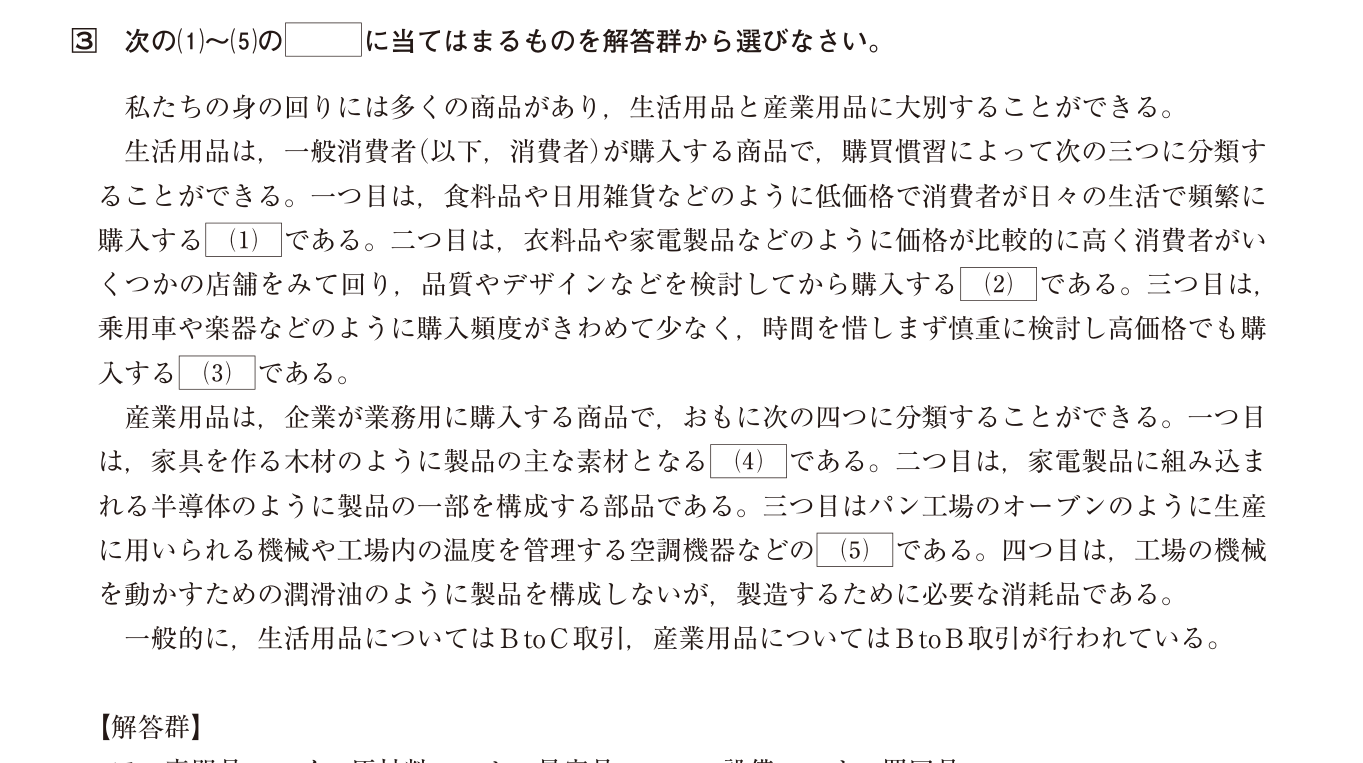
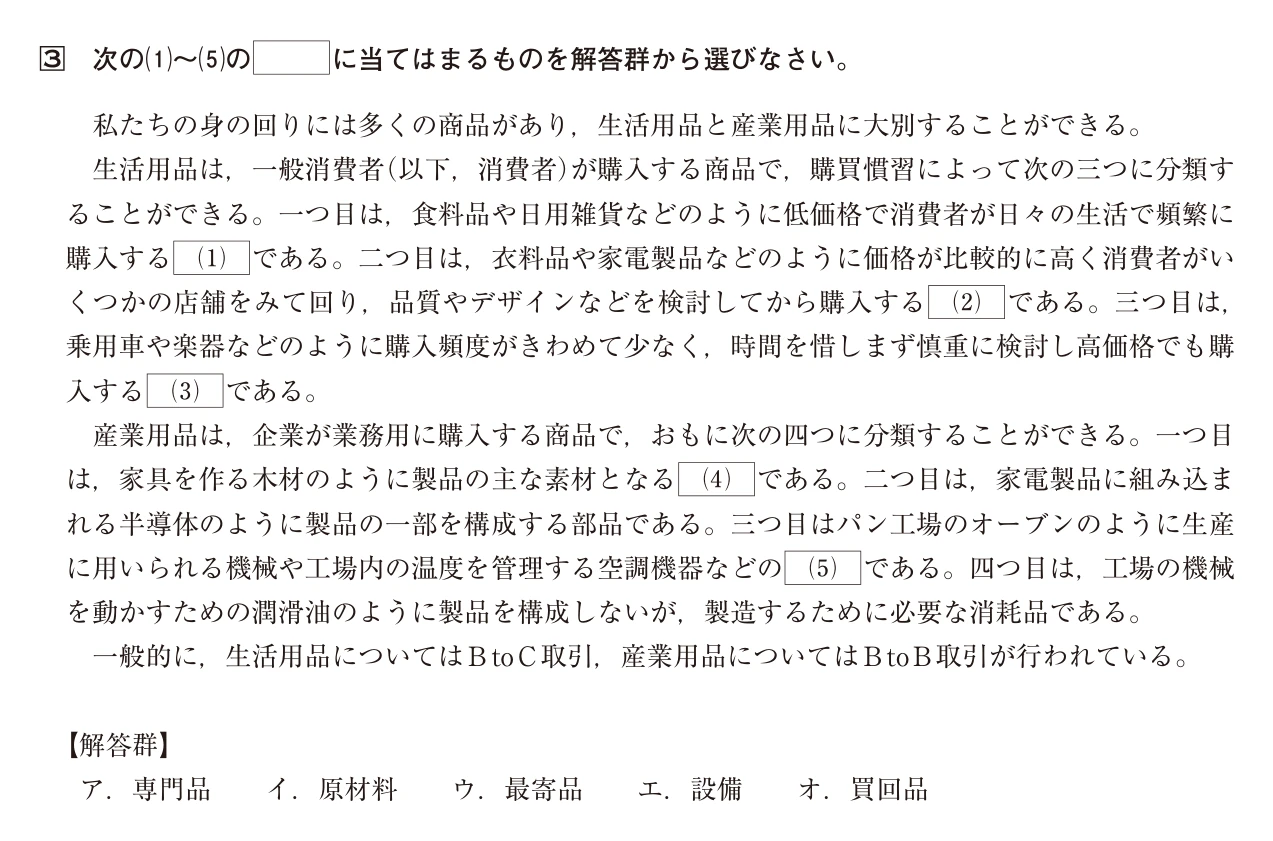
商業経済検定第36回ビジネス基礎50問を配信に追加する

diff --git a/data/questions/zensho-eco-77/index.ts b/data/questions/zensho-eco-77/index.ts
@@ -1,4 +1,5 @@
 import { appendReplenishedQuestions } from "../published";
+import year2021 from "./2021-36-business.json";
 import year2025 from "./2025-annual.json";
 
 import year2024 from "./2024-annual.json";
@@ -13,4 +14,5 @@ import year2023 from "./2023-annual.json";
 export const ZENSHO_ECO_77_QUESTIONS = appendReplenishedQuestions([...year2025, ...year2024] as Question[], [
   data,
   year2023,
+  year2021,
 ]);
